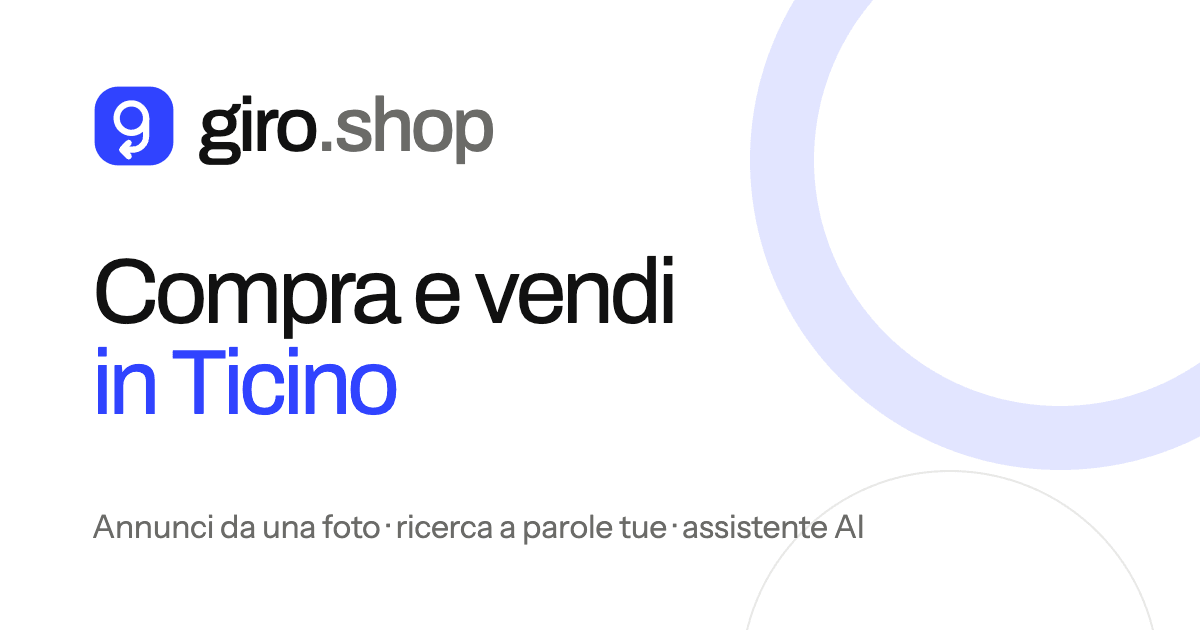
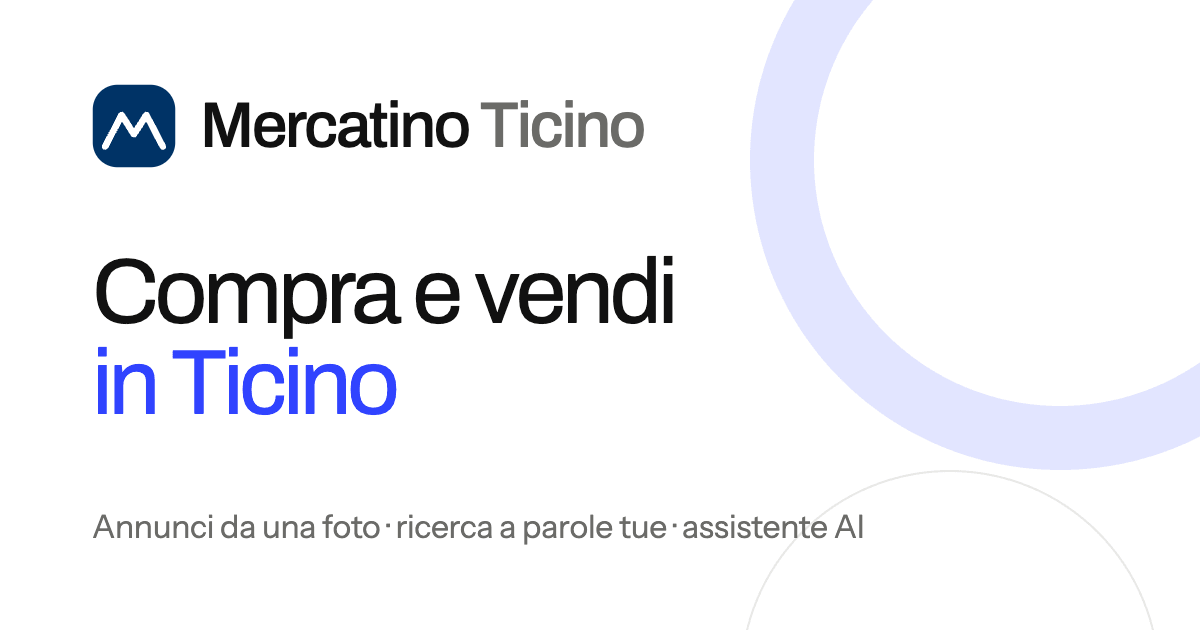
Nuovo marchio: montagna Mercatino Ticino
Il quadrato blu notte con la montagna sostituisce la "g" con la freccia in
testata, piè di pagina, favicon, icone dell'app, anteprime social ed email.
Accanto al marchio la scritta "Mercatino Ticino"; col tema scuro il marchio
si inverte (fondo bianco, montagna blu).

Changed region(s): [[0.0617, 0.1206, 0.555, 0.2714]]

diff --git a/src/styles/global.css b/src/styles/global.css
@@ -15,6 +15,8 @@
   --volt: #3043ff;
   --volt-ink: #ffffff;
   --volt-soft: #e2e5ff;
+  --mark: #003366;
+  --mark-ink: #ffffff;
   --sun: #ffb01f;
   --sun-ink: #1f1600;
   --ok: #08704c;
@@ -45,6 +47,8 @@
     --volt: #7584ff;
     --volt-ink: #0a0d16;
     --volt-soft: #1d2350;
+    --mark: #ffffff;
+    --mark-ink: #003366;
     --sun: #ffc04d;
     --sun-ink: #1f1600;
     --ok: #3ccb95;
@@ -70,6 +74,8 @@
   --volt: #7584ff;
   --volt-ink: #0a0d16;
   --volt-soft: #1d2350;
+  --mark: #ffffff;
+  --mark-ink: #003366;
   --sun: #ffc04d;
   --sun-ink: #1f1600;
   --ok: #3ccb95;
@@ -135,10 +141,10 @@ h3 { font-size: 18px; font-weight: 500; line-height: 1.3; letter-spacing: -0.01e
 .top-in { display: flex; align-items: center; justify-content: space-between; gap: 24px; padding-block: 20px; }
 .brand { display: flex; align-items: center; gap: 10px; text-decoration: none; }
 .mark { width: 26px; height: 26px; flex: none; }
-.mark rect { fill: var(--volt); }
-.mark .arrow { fill: none; stroke: var(--volt-ink); stroke-width: 2.4; stroke-linecap: round; stroke-linejoin: round; }
-.wordmark { font: 500 22px/1 var(--f-display); letter-spacing: -0.045em; }
+.wordmark { font: 500 22px/1 var(--f-display); letter-spacing: -0.035em; white-space: nowrap; }
 .wordmark .tld { color: var(--muted); }
+.mark rect { fill: var(--mark); }
+.mark .glyph { fill: none; stroke: var(--mark-ink); stroke-width: 2.4; stroke-linecap: round; stroke-linejoin: round; }
 .top nav { display: flex; align-items: center; gap: 28px; }
 .top nav a:not(.btn) { font: 500 11px/1 var(--f-body); letter-spacing: 0.08em; text-transform: uppercase; text-decoration: none; color: var(--ink); padding-block: 6px; }
 .top nav a:not(.btn):hover, .top nav a[aria-current='page']:not(.btn) { text-decoration: underline; text-underline-offset: 8px; text-decoration-thickness: 1px; }
@@ -436,12 +442,9 @@ h3 { font-size: 18px; font-weight: 500; line-height: 1.3; letter-spacing: -0.01e
 .search:focus-within > svg { transform: rotate(-12deg) scale(1.06); }
 
 @media (hover: hover) and (pointer: fine) {
-  /* Marchio: la freccia fa un giro (giro.shop), il quadrato si gonfia appena */
+  /* Marchio: il quadrato si gonfia appena */
   .mark { transition: transform 0.3s var(--ease-spring); }
-  .mark .arrow { transform-origin: 16px 16px; }
   .brand:hover .mark { transform: scale(1.06); }
-  .brand:hover .mark .arrow { animation: giro 0.7s var(--ease-out); }
-  @keyframes giro { from { transform: rotate(0); } to { transform: rotate(-360deg); } }
 
   /* Card: la foto si avvicina un poco, l'icona di categoria (senza foto) si inclina */
   .lph img, .lph .ico { transition: transform 0.5s var(--ease-out), opacity 0.35s ease-out; }

diff --git a/src/lib/email-design.ts b/src/lib/email-design.ts
@@ -139,7 +139,7 @@ export function emailLayout({ origin, preheader, body, footer = '' }: LayoutInpu
 <tr><td class="giro-outer" align="center" style="padding:32px 16px">
   <table role="presentation" width="560" cellspacing="0" cellpadding="0" border="0" style="width:100%;max-width:560px">
     <tr><td style="padding:0 4px 18px">
-      <a href="${origin}/" style="text-decoration:none"><img src="${origin}/email/giro-logo.png" width="122" height="27" alt="giro.shop" style="display:block;border:0"></a>
+      <a href="${origin}/" style="text-decoration:none"><img src="${origin}/email/giro-logo.png" width="175" height="27" alt="Mercatino Ticino" style="display:block;border:0"></a>
     </td></tr>
     <tr><td class="giro-pad" style="background:${C.card};border-radius:8px;padding:32px">
       ${body}

diff --git a/src/pages/og/annuncio/[id].jpg.ts b/src/pages/og/annuncio/[id].jpg.ts
@@ -13,9 +13,9 @@ const H = 630;
 
 const BADGE = Buffer.from(
   `<svg xmlns="http://www.w3.org/2000/svg" width="76" height="76" viewBox="0 0 32 32">
-    <rect x="1" y="1" width="30" height="30" rx="9" fill="#3043FF"/>
+    <rect x="1" y="1" width="30" height="30" rx="9" fill="#003366"/>
     <g fill="none" stroke="#fff" stroke-width="2.4" stroke-linecap="round" stroke-linejoin="round">
-      <circle cx="15" cy="13" r="5.6"/><path d="M20.6 13V20a5 5 0 0 1-5 5H11.5"/><path d="M14 22.4L11.5 25L14 27.6"/>
+      <path d="M5.5 23.5L11.5 12L16 19L20.5 12L26.5 23.5"/>
     </g></svg>`,
 );
 
